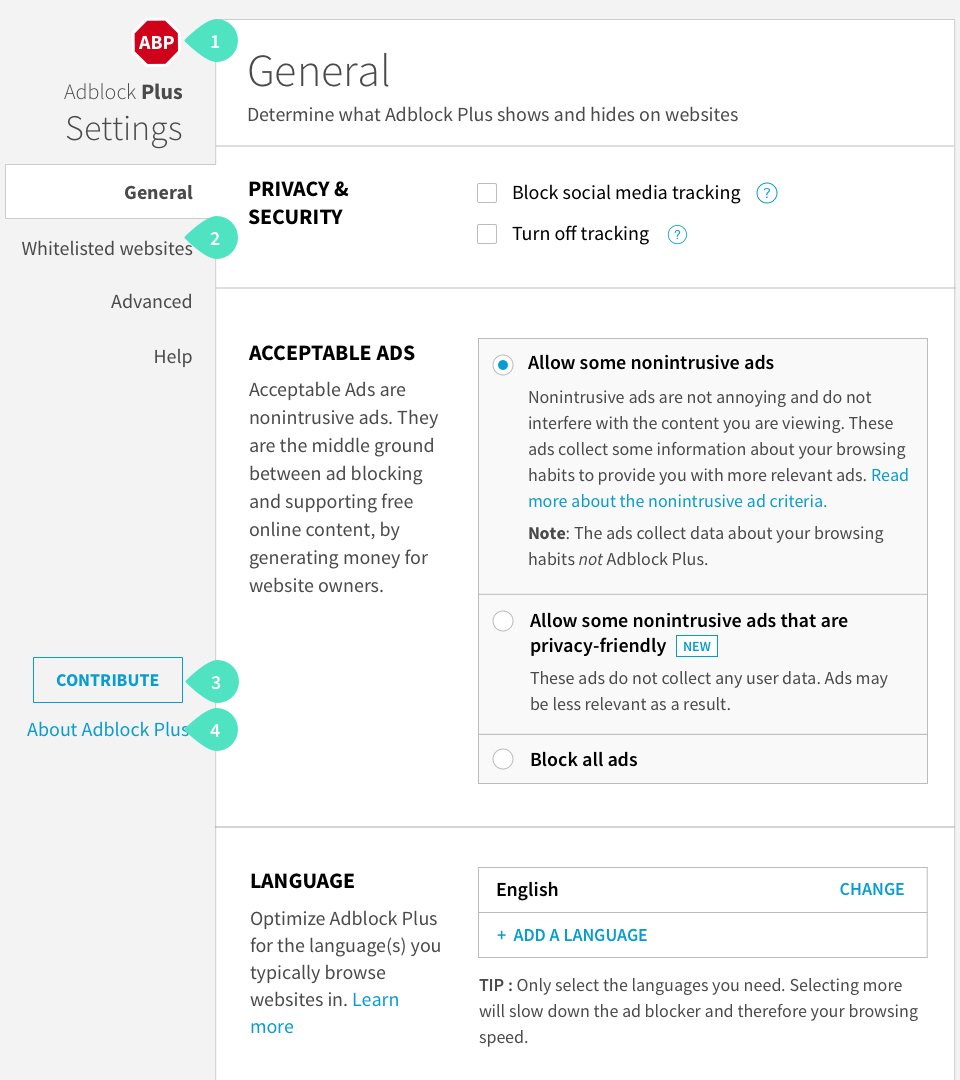
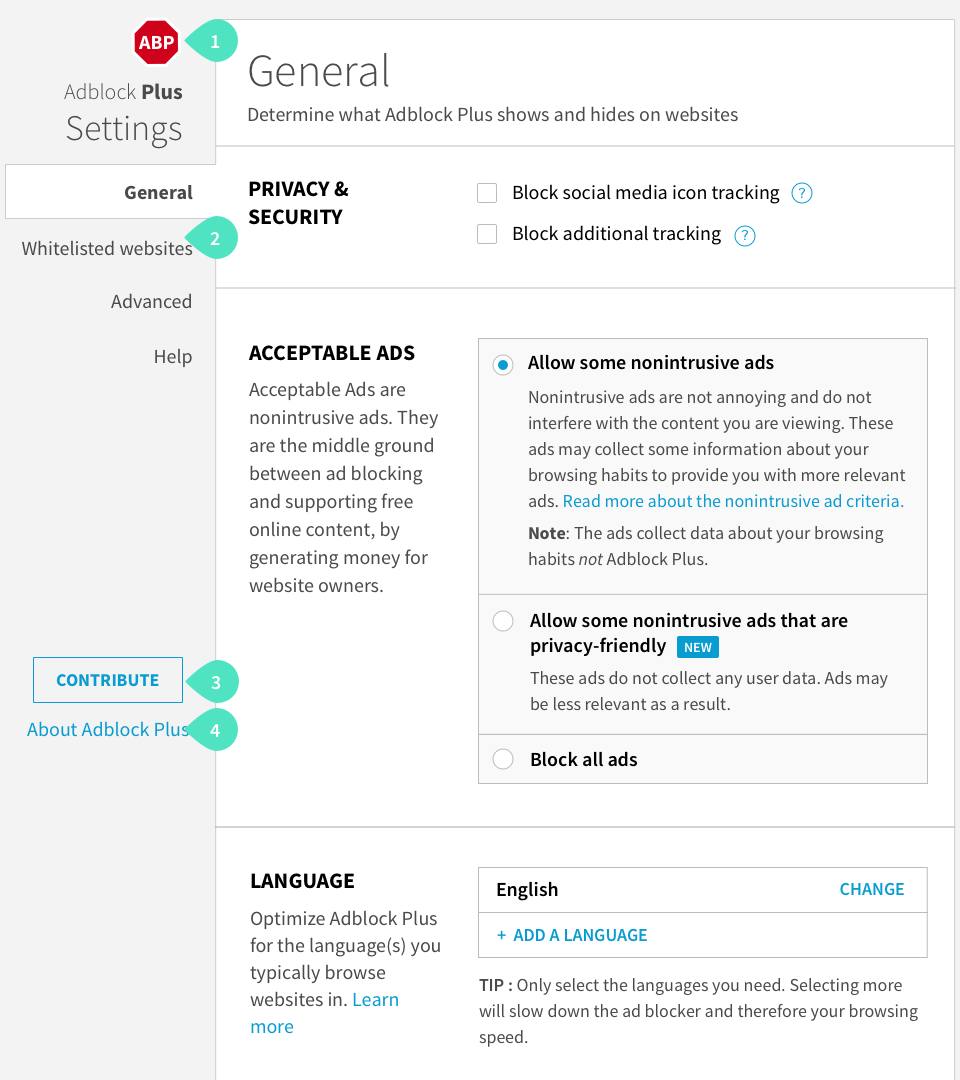
Issue #64,65,66,67: Updated 'EasyPrivacy', 'Fanboy Annoyances' labels on general tab, updated Acceptable Ads copy, Updated "More filters" note

diff --git a/spec/abp/options-page.md b/spec/abp/options-page.md
@@ -127,8 +127,8 @@ Checkbox to install/uninstall each filter list.
 
 | Filter list name | Filter list title | Tooltip | Filter list URL |
 |-----------|---------------|---------------|--------------|
-| Fanboy's Annoyances | `Block social media tracking` | `The social media buttons (or icons) on the websites you visit allow social media networks to build a profile of you based on your browsing habits - even when you don’t click on them. Hiding these buttons can protect your profile.` | https://easylist-downloads.adblockplus.org/fanboy-annoyance.txt |
-| EasyPrivacy | `Disable tracking` | `Protect your personal data by removing all forms of tracking from the Internet including information collectors.` | https://easylist-downloads.adblockplus.org/easyprivacy.txt |
+| Fanboy's Annoyances | `Block social media icon tracking` | `The social media icons on the websites you visit allow social media networks to build a profile of you based on your browsing habits - even when you don’t click on them. Hiding these icons can protect your profile.` | https://easylist-downloads.adblockplus.org/fanboy-annoyance.txt |
+| EasyPrivacy | `Block additional tracking` | `Protect your personal data by removing all forms of tracking from the Internet including information collectors.` | https://easylist-downloads.adblockplus.org/easyprivacy.txt |
 
 #### Tooltip icon
 
@@ -167,7 +167,7 @@ Description for the [Acceptable Ads section](#markdown-header-acceptable-ads-sec
 
 | Title | Description | Action |
 |-----------|---------------|--------------|
-| `Allow some nonintrusive ads` | `Nonintrusive ads are not annoying and do not interfere with the content you are viewing. These ads collect some information about your browsing habits to provide you with more relevant ads.  [Read more about the nonintrusive ad criteria][1]` `**Note:** The ads collect data about your browsing habits **_not_** Adblock Plus.` | Enables `Allow non-intrusive advertising` filter list. |
+| `Allow some nonintrusive ads` | `Nonintrusive ads are not annoying and do not interfere with the content you are viewing. These ads may collect some information about your browsing habits to provide you with more relevant ads.  [Read more about the nonintrusive ad criteria][1]` `**Note:** The ads collect data about your browsing habits **_not_** Adblock Plus.` | Enables `Allow non-intrusive advertising` filter list. |
 | `Allow only nonintrusive ads that are privacy-friendly` | `These ads do not collect personal user information and, therefore, may be less relevant.` | Enables Privacy friendly ads |
 | `Block all ads` | N/A | Disables `Allow nonintrusive advertising` filter list. |
 
@@ -201,7 +201,7 @@ The default setting.
 ```
 You currently allow Acceptable Ads to be shown.
 These ads are respectful and do not interfere with content that you view.
-Some of these ads require tracking to show you more relevant ads.
+Some of these ads may require tracking to show you more relevant ads.
 Click *YES* to continue seeing relevant nonintrusive ads.
 ```
 - Buttons
@@ -209,7 +209,7 @@ Click *YES* to continue seeing relevant nonintrusive ads.
 | Button label | Behaviour | 
 |-----------|---------------|
 | `YES, ALLOW RELEVANT ADS` | Keeps selection on `Show nonintrusive ads`, and closes window |
-| `NO, TURN OFF TRACKING` | Switches selection to `Show nonintrusive ads that are privacy-friendly`, and closes window |
+| `NO, BLOCK TRACKING` | Switches selection to `Show nonintrusive ads that are privacy-friendly`, and closes window |
 
 ```
 *Note:*
@@ -345,7 +345,7 @@ You can only remove filters from the panel here, by clicking on the `Remove` but
 
 #### More filters notes
 
-Description `**Note:** These filters are managed by third party authors. Adblock Plus is not responsible for them.`
+Description `**Note:** You should only use third party filter lists from authors that you trust.`
 
 Whitelist tab
 -------------
